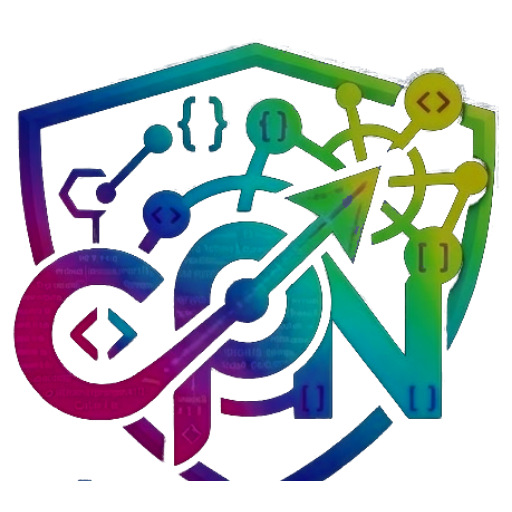
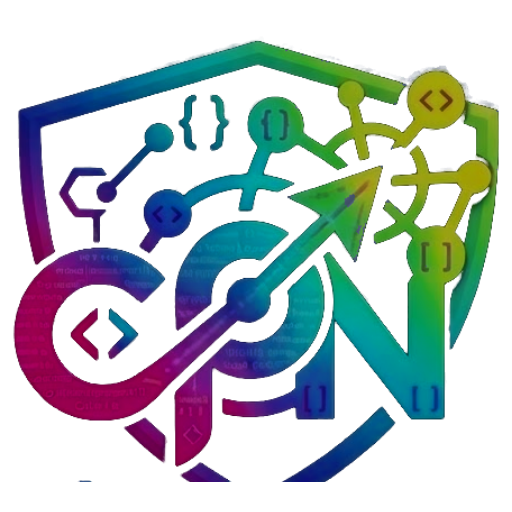
Limpieza final del logotipo y version visible al dia
Mediana 3x3 sobre el alfa: el texto plateado salia del JPEG con motas
sueltas en el borde y se veia sucio al lado de "Nauto", que es de
color. Se probo ademas un cierre morfologico para rellenar la "C" y se
descarto: engorda las letras y cierra el ojo de la "a".

Verificado en las cinco pantallas reales donde aparece el logotipo y a
240/190/120 px sobre blanco, gris claro y azul oscuro.

Se corrige la version visible de socios-comicion, que seguia en v110
mientras el Service Worker ya iba en v113, y se borran los cpn-iso.png
de diario y propi, que no los referenciaba nadie.

Claude-Session: https://claude.ai/code/session_01Dp9JNjXZZUVM4C5vjd3yaS

diff --git a/index.html b/index.html
@@ -2288,7 +2288,7 @@
             <div style="text-align:center; margin-bottom:24px;">
                 <!-- SVG de fondo transparente: se apoya sobre el blanco de la
                      tarjeta sin recuadro ni fusión. -->
-                <img src="img/marca/cpn-marca.png?v=2026d" alt="Carlos P. Nauto Interactive" style="width:100%; max-width:240px; height:auto; display:block; margin:0 auto 10px;">
+                <img src="img/marca/cpn-marca.png?v=2026e" alt="Carlos P. Nauto Interactive" style="width:100%; max-width:240px; height:auto; display:block; margin:0 auto 10px;">
                 <div style="font-size:11px; font-weight:700; color:#95a5a6; letter-spacing:0.12em; text-transform:uppercase; margin-top:2px;">Sistema Profesional de Gestión · 2026</div>
             </div>
 
@@ -2679,7 +2679,7 @@
   })();
 </script>
 <!-- Versión visible de la app (= versión del Service Worker) -->
-<div style="position:fixed;bottom:6px;right:8px;z-index:9999;font-size:10px;color:#94a3b8;opacity:0.75;pointer-events:none;font-weight:600;">v110</div>
+<div style="position:fixed;bottom:6px;right:8px;z-index:9999;font-size:10px;color:#94a3b8;opacity:0.75;pointer-events:none;font-weight:600;">v114</div>
 <!-- MODAL: motivo del cierre masivo (texto de varias líneas, para poder releerlo) -->
 <div id="modalMotivoMasivo" style="display:none;position:fixed;inset:0;z-index:10050;background:rgba(0,0,0,0.6);align-items:center;justify-content:center;padding:18px;">
     <div style="background:var(--card-bg,#fff);border-radius:16px;max-width:520px;width:100%;box-shadow:0 20px 60px rgba(0,0,0,0.35);overflow:hidden;">

diff --git a/index2.html b/index2.html
@@ -108,7 +108,7 @@
       <!-- SVG de fondo transparente: se apoya sobre el azul oscuro del login.
            Sus colores están pensados para fondo claro, así que aquí se avivan
            con un brillo (mismo criterio que en las otras apps en tema oscuro). -->
-      <img src="img/marca/cpn-marca.png?v=2026d" alt="Carlos P. Nauto Interactive"
+      <img src="img/marca/cpn-marca.png?v=2026e" alt="Carlos P. Nauto Interactive"
            style="width:100%;max-width:158px;height:auto;display:block;margin:0 auto;
                   filter:brightness(1.45) saturate(1.05);">
       <div style="font-size:9.5px;font-weight:700;color:#475569;letter-spacing:.14em;text-transform:uppercase;margin-top:9px;">

diff --git a/sw2.js b/sw2.js
@@ -1,6 +1,6 @@
 // Service Worker de la app de Horarios (index2.html).
 // Alcance acotado a /index2.html para NO afectar la app principal (index.html).
-const CACHE = 'horarios-mesas-v6';
+const CACHE = 'horarios-mesas-v7';
 const ASSETS = ['/index2.html', '/manifest2.json', '/img/horarios-192.png', '/img/horarios-512.png', '/img/marca/cpn-marca.png'];
 
 self.addEventListener('install', event => {

diff --git a/sw.js b/sw.js
@@ -1,5 +1,5 @@
 // Service Worker — Sistema Integral (Fondo Solidario, app admin)
-const CACHE = 'fondo-admin-v113';
+const CACHE = 'fondo-admin-v114';
 
 // ── Push (notificaciones aunque la app esté cerrada) ──
 self.addEventListener('push', event => {

diff --git a/README.md b/README.md
@@ -232,7 +232,7 @@ El sistema usa una capa de caché en `localStorage` con timestamps para evitar l
 
 ## Historial de Cambios
 
-#### 2026-09-15 — Logotipo original recortado y recoloreado (SW v113 / Horarios v6)
+#### 2026-09-15 — Logotipo original recortado y recoloreado (SW v114 / Horarios v7)
 
 - **Se revierte el redibujo.** El pedido era cambiar el color, no el dibujo, y el logotipo vectorial que hice antes no era el logotipo de la marca. Vuelve **el arte original, con su forma exacta**, y lo único que cambia es el color.
 - **Cómo se recortó el fondo.** El archivo de origen es una foto de una maqueta: el escudo sobre una pared de metal cepillado con degradado. Los dos primeros intentos fallaron —quitar un color de fondo no sirve porque el fondo no es plano, y filtrar por brillo deja los reflejos del metal—. Lo que sí funcionó fue un **top-hat**: se estima el fondo como el **mínimo local** en una ventana más ancha que el trazo más grueso del logo, y se conserva lo que sobresale de ese fondo. El arte siempre es más claro que lo que lo rodea; la textura del metal, no.
@@ -242,7 +242,9 @@ El sistema usa una capa de caché en `localStorage` con timestamps para evitar l
   - Los reflejos pegados al borde del escudo entran con alfa baja pero **nunca llegan a ser opacos**: se conserva solo lo que está a menos de 4 px de un píxel opaco.
 - **El color:** se conservan los mismos tonos del original (el arcoíris rosa → cian → verde → amarillo) pero **más saturados y menos claros**, porque el neón original se lava sobre fondo blanco. Lo que era plata pasa a un gris azulado oscuro, que sobre blanco sí se lee.
 - **Archivos:** `img/marca/cpn-marca.png` (520×480, 219 KB, fondo transparente) e `img/marca/cpn-iso-192/512.png` (solo el escudo). Se borran los SVG del intento anterior.
-- Verificado a 200 px y 118 px sobre blanco, gris claro y azul oscuro.
+- **Mediana 3×3 sobre el alfa:** el texto plateado sale del JPEG con motas sueltas en el borde y se veía sucio al lado de «Nauto», que es de color. La mediana se come el punto aislado y respeta el trazo. Se probó además un **cierre morfológico** para rellenar la «C», que es la zona más oscura del texto: **se descartó** porque engorda las letras y cierra el ojo de la «a».
+- Verificado en las **cinco pantallas reales** donde aparece —*Acerca de* de socios-comición, el pie del login de Horarios, propi.solicitada en claro y oscuro, y el pie de diario.propi— y a 240/190/120 px sobre blanco, gris claro y azul oscuro.
+- Se corrigió de paso la **versión visible de `index.html`**, que seguía diciendo v110 mientras el Service Worker ya iba en v113.
 - Archivos: `index.html`, `index2.html`, `sw.js`, `sw2.js`, `img/marca/`.
 #### 2026-09-15 — El Desglose de Anticipos quedaba vacío el día 15 (SW v110)
 
